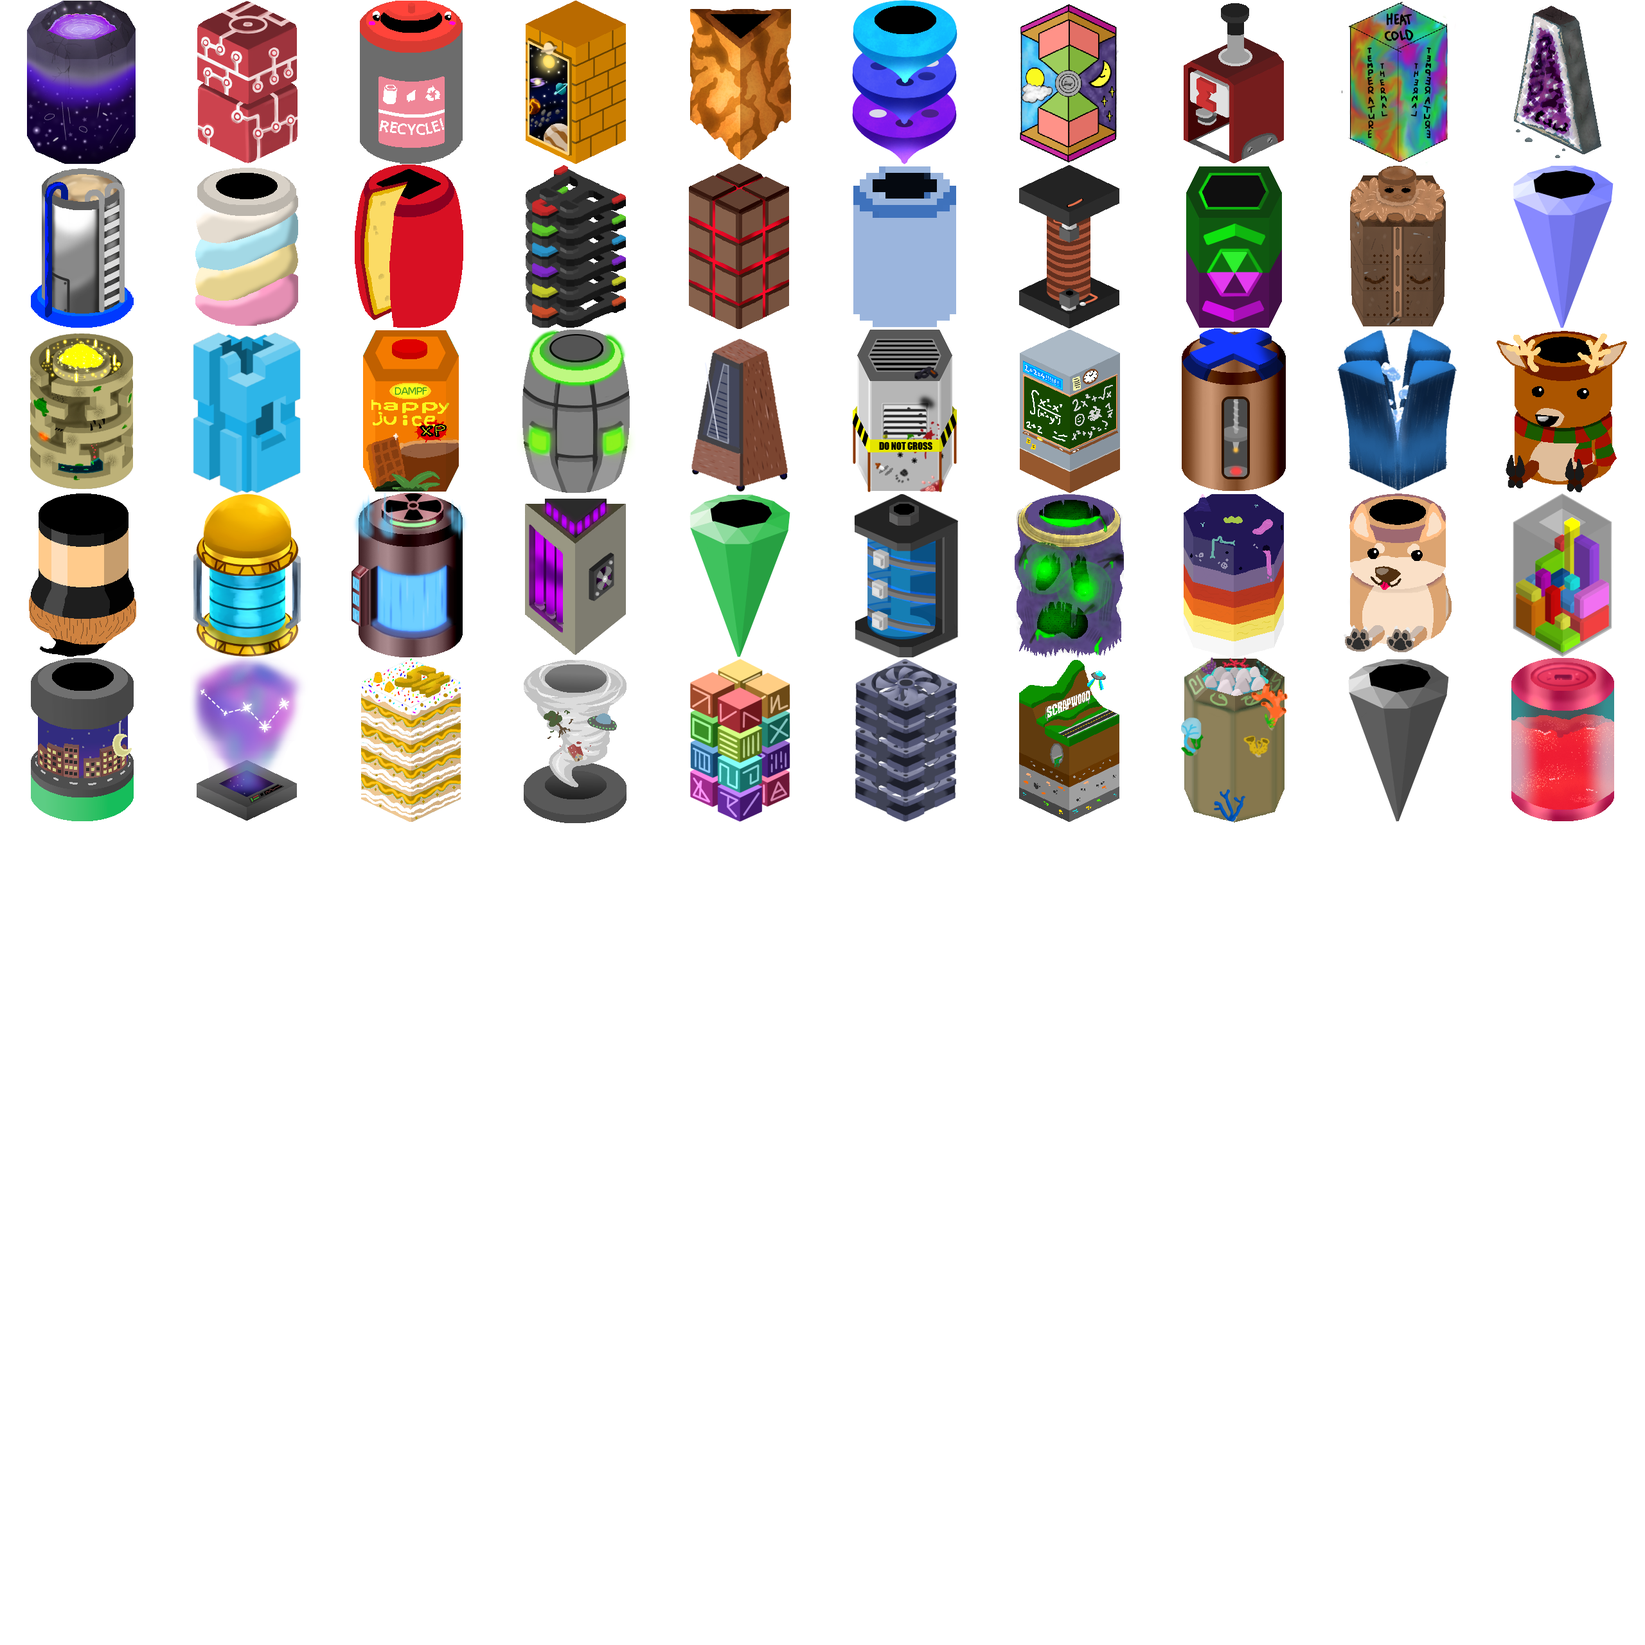
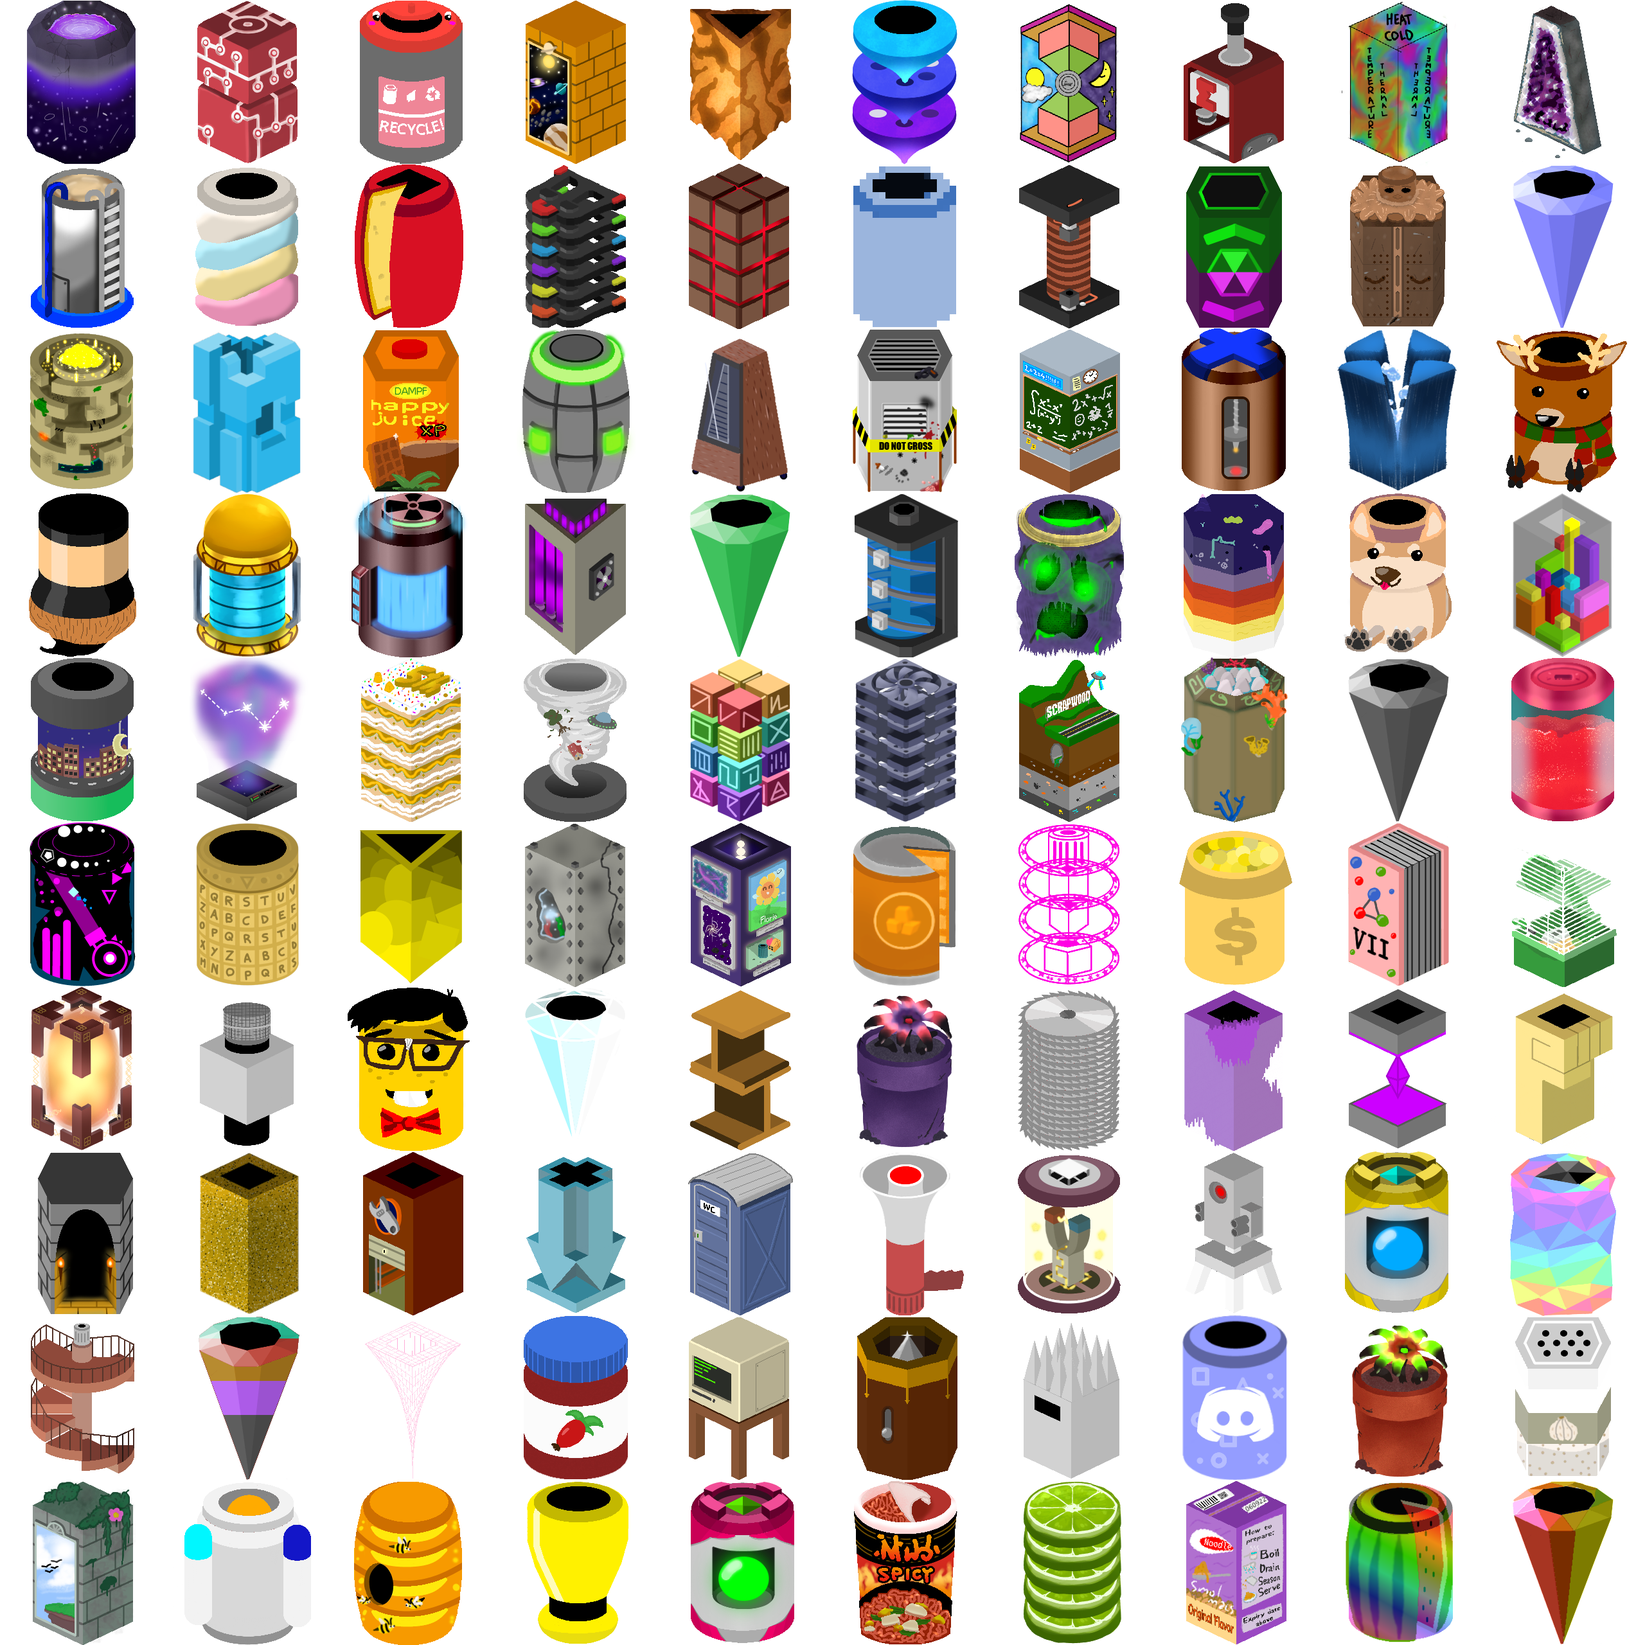
Final beta?

diff --git a/Scripts/gamedefinition.js b/Scripts/gamedefinition.js
@@ -78,7 +78,7 @@
                 }
                 freeSpots = 20;
                 draggedBarrel = undefined;
-                game.mergesThisPrestige = 0;
+                if(!timeMode) game.mergesThisPrestige = 0;
                 game.scrap = new Decimal(0);
                 game.scrapThisPrestige = new Decimal(0);
                 for (let upg of Object.keys(game.scrapUpgrades)) {
@@ -158,16 +158,19 @@
                         }
                     }
 
-                    for (let i = 0; i < barrels.length; i++) {
-                        if (barrels[i] !== undefined && barrels[i].level < applyUpgrade(this).toNumber() + 1) {
-                            barrels[i] = new Barrel(applyUpgrade(this).toNumber() + 1);
-                        }
-                    }
+                    this.onBuyMax(this.level);
 
                 },
                 onLevelDown: function (level) {
                     for (let i = 0; i < barrels.length; i++) {
                         barrels[i] = new Barrel(level);
+                    }
+                },
+                onBuyMax: function (level) {
+                    for (let i = 0; i < barrels.length; i++) {
+                        if (barrels[i] !== undefined && barrels[i].level < applyUpgrade(this).toNumber() + 1) {
+                            barrels[i] = new Barrel(applyUpgrade(this).toNumber() + 1);
+                        }
                     }
                 },
                 maxLevel: 3000,
@@ -790,7 +793,7 @@
         upgrades: {
             scrapBoost: new CogwheelUpgrade(
                 level => new Decimal(Math.sqrt(level)).add(1.2).pow(3.5),
-                level => new Decimal(3.7).pow(level * 7),
+                level => new Decimal(13.7).pow(level * 7),
                 {
                     getEffectDisplay: effectDisplayTemplates.numberStandard(2, "x")
                 }),
@@ -1600,7 +1603,7 @@
     autos:
     {
         autoBetterBarrels: new AutoUpgrade(
-            level => new Decimal(Math.round(level / 20) + 2),
+            level => new Decimal(Math.round(level / 60) + 2),
             level => (60.5 - (0.5 * level) - (0.25 * Math.min(level, 25)) + (0.25 * Math.max(level - 92, 0))) * Math.min(level, 1),
             RESOURCE_LEGENDARYSCRAP, ["scrapUpgrades", "betterBarrels"],
             time = 0,
@@ -1878,17 +1881,21 @@
                 new Milestone(156, "RPG v3 (Mastery 2.0)", 92, "Unlock Barrel Mastery", () => game.barrelMastery.isUnlocked()),
                 new Milestone(157, "Influenced by the barrels", 1, "Unlock the first mastery upgrade", () => getTotalLevels(1) > 9),
                 new Milestone(158, "There's more?!", 2, "Unlock the second mastery upgrade", () => getTotalLevels(2) > 9),
+                new Milestone(230, "Scrapmas", 116, "Unlock Gifts (Earth)", () => game.solarSystem.upgrades.earth.level >= EarthLevels.GIFTS),
                 new Milestone(159, "Uhh, why aren't you using them?", 93, "Refuse to spend your Mastery Tokens\nfor a while", () => game.barrelMastery.masteryTokens.gte(new Decimal(500))),
+                new Milestone(231, "Lots of Love", 116, "Send a gift to someone", () => game.dimension == 508050),
                 new Milestone(160, "Master Builder", 24, "Unlock the third mastery upgrade", () => getTotalLevels(3) > 9),
                 new Milestone(161, "Topper", 93, "Hoard 2k Mastery Tokens for some reason", () => game.barrelMastery.masteryTokens.gte(new Decimal(2000))),
                 new Milestone(124, "To The End Of The Universe", 74, () => "Mythus level 50", () => game.solarSystem.upgrades.mythus.level > 49),
                 new Milestone(162, "My first 1M barrel", 0, "Have 1M mastery merges on barrel 204", () => game.barrelMastery.b[203] >= 1000000),
+                new Milestone(232, "Is for me?", 116, "Receive a gift from someone", () => game.dimension == 508050),
                 new Milestone(163, "Another yellow beam", 94, "Collect a golden beam", () => game.stats.totalgoldenbeamscollected >= 1),
                 new Milestone(166, "Save the crabs!", 95, "Unlock Plastic Bags", () => game.skillTree.upgrades.unlockPlasticBags.level > 0),
                 new Milestone(117, "For the Door Handle\nSalesman", 19, "Reach " + Decimal.pow(2, 15360).toFixed(2) + " Scrap", () => game.highestScrapReached.gte(Decimal.pow(2, 15360))),
                 new Milestone(167, "Crab Saver I", 96, "Buy 25 Plastic Bags (in total)", () => game.stats.totalplasticbags.gte(25)),
                 new Milestone(168, "Exponential Power", 16, "I thought this upgrade will be weak,\nbut it's actually very strong...", () => game.skillTree.upgrades.strongerMasteryMagnets.level > 0),
                 new Milestone(170, "Crab Saver II", 96, "Buy 100 Plastic Bags (in total)", () => game.stats.totalplasticbags.gte(100)),
+                new Milestone(233, "Laughing Out Loud", 116, "Leave a special message for someone...", () => game.dimension == 508050),
                 new Milestone(169, "Cheap Path Done!", 16, "Unlock the Faster Merge Mastery tree upgrade", () => game.skillTree.upgrades.fasterMergeMastery.level > 0),
                 new Milestone(171, "Green Upgrades", 95, "Level the first Plastic Bag upgrade to 25", () => game.plasticBags.upgrades.moreScrap.level > 24),
                 new Milestone(125, "Level Push is OP", 75, () => "Reach Better Barrels level 5000", () => game.scrapUpgrades.betterBarrels.level > 4999),
@@ -1938,6 +1945,7 @@
                 new Milestone(211, "Falling Magnet Guys", 2, "Make Falling Magnets\nworth 100x more", () => game.skillTree.upgrades.fallingMagnetValue.level > 0),
                 new Milestone(212, "Tim Mode", 112, "Unlock Time Mode", () => game.skillTree.upgrades.unlockTimeMode.level > 0),
                 new Milestone(213, "Third Dimension", 112, () => "Start a run...", () => game.dimension == 508050),
+                new Milestone(234, "Advent Calendar", 116, "Send some gifts to the people", () => game.stats.giftsSent.gte(24)),
                 new Milestone(214, "Hot Wheels", 111, "Earn your first cogwheels!", () => game.cogwheels.amount.gte(0)),
                 new Milestone(215, "Cog, the player?", 111, "Have 1000 cogwheels at once", () => game.cogwheels.amount.gte(1000)),
                 new Milestone(216, "**** wheels", 113, () => "Earn 1000 cogwheels in a single run", () => game.dimension == 508050),
@@ -1951,6 +1959,7 @@
                 new Milestone(224, "Plastic Eff. Testing Agency", 95, "Cheaper Plastic Bags", () => game.tires.upgrades[3][2].level > 9),
                 new Milestone(227, "Combine Everything", 65, "Do 100k self merges\n(Merges from auto merge do not count as self merges)", () => game.selfMerges > 99999),
                 new Milestone(179, "Scrapyard v300", 68, "Upgrade scrapyard to level 301", () => game.mergeQuests.scrapyard > 300),
+                new Milestone(235, "They Call Me Santa", 116, "Send a few gifts to the people", () => game.stats.giftsSent.gte(100)),
                 new Milestone(147, "Time to go AFK...", 87, "Max. the first auto buyer", () => game.autos.autoBetterBarrels.level > 116),
                 new Milestone(210, "It's been 84 years...", 27, "Level the fourth tire row to 50", () => game.tires.upgrades[3][0].level > 49 && game.tires.upgrades[3][1].level > 49 && game.tires.upgrades[3][2].level > 49),
                 new Milestone(165, "Nobody can touch this", 69, () => "Reach " + formatNumber(new Decimal(2).pow(40960)) + " Scrap\nStop... scrap grinding time!", () => game.highestScrapReached.gte(Decimal.pow(2, 40960))),

diff --git a/Scripts/main.js b/Scripts/main.js
@@ -190,7 +190,7 @@ function update()
         }
         else if (timeMode && freeSpots == 0) {
             timeMode = false;
-            let cogReward = Math.floor(timeModeTime / 4) * calculateCurrentHighest();
+            let cogReward = Math.floor(timeModeTime / 2) * calculateCurrentHighest();
 
             if (game.ms.includes(215) == false && cogReward > 999) {
                 game.ms.push(215);
@@ -203,16 +203,17 @@ function update()
             GameNotification.create(new TextNotification("+" + cogReward + " cog wheels", "Time Over!"));
 
             timeModeTime = 0;
-
+            let Ti = 0;
             while (timeTires >= 0) {
-                movingItemFactory.jumpingTire();
+                stormQueue.push([100 * Ti, "tire", 1]);
                 timeTires -= 1;
+                Ti += 1;
             }
         }
 
         if (timeMode) {
             timeModeTime += delta;
-            game.scrapUpgrades.fasterBarrels.level = Math.floor(timeModeTime / 8);
+            game.scrapUpgrades.fasterBarrels.level = Math.floor(timeModeTime / 4);
         }
 
         if(game.solarSystem.upgrades.earth.level >= EarthLevels.UNLOCK_MARS && !timeMode)
@@ -513,6 +514,9 @@ function update()
                             let val = stormQueue[q][2];
 
                             switch (stormQueue[q][1]) {
+                                case "tire":
+                                    movingItemFactory.jumpingTire();
+                                    break;
                                 case "goldenbeam":
                                     movingItemFactory.fallingGoldenBeam(val);
                                     break;
@@ -544,13 +548,13 @@ function update()
         }
     }
 
-    
+    /*
     ctx.font = (h * .02) + "px " + fonts.default;
     ctx.textAlign = "left";
     ctx.textBaseline = "top";
     ctx.fillStyle = "white";
     ctx.fillText((1 / delta).toFixed(0) + " fps", w * 0.01, h * 0.005, w);
-    
+    */
     //ctx.fillText("mouseMove: [" + mouseMoveX + ", " + mouseMoveY + "]", w * 0.33, h * 0.005, w);
 
     requestAnimationFrame(update);
@@ -664,7 +668,7 @@ var masMerges = [100, 250, 500, 1000, 2500,
                  5000, 7500, 10000, 15000, 20000, 25000];
 // 100, 125, 166, 250, 500, 833, 1071, 1250, 1666, 2000, 2272(, 4166, 5796, 7142, ...)
 
-const filthyWords = ["ass", "cum", "shit", "fuck", "bitch", "hitler", "cunt", "poop", "faggot"]
+const filthyWords = ["ass", "cum", "shit", "fuck", "bitch", "hitler", "cunt", "poop", "faggot", "nigger", "nigga", "slave", "cock", "dick", "sex", "penis", "vagina"]
 
 function calculateMasteryLevel(merges) {
     if (merges < 25001) {
@@ -876,8 +880,8 @@ function setBarrelQuality(idx, fromScene)
 {
     barrelsLoaded = false;
     Scene.loadScene("Loading");
-    if (game.dimension == 0) {
-        for (i = 1; i < 10; i++) { // Change these two every time you add new BARRELS files
+    if (game.dimension == 0) { /* Change this when you add new BARRELS files */
+        for (i = 1; i < 11; i++) { // Change these two every time you add new BARRELS files
             images["barrels" + i] = loadImage("Images/Barrels/" + ["barrels" + i + ".png", "barrels" + i + "_lq.png",
                 "barrels" + i + "_ulq.png"][idx], () => {
                     barrelsLoaded = true;
@@ -886,7 +890,7 @@ function setBarrelQuality(idx, fromScene)
         }
     }
     if (game.dimension == 1) {
-        for (i = 1; i < 10; i++) {
+        for (i = 1; i < 11; i++) {
             images["barrels" + i] = loadImage("Images/Barrels/" + ["barrels" + i + "b.png", "barrels" + i + "b_lq.png",
                 "barrels" + i + "b_ulq.png"][idx], () => {
                     barrelsLoaded = true;
@@ -1000,8 +1004,9 @@ function maxScrapUpgrades() {
     for (k in game.scrapUpgrades) {
         let upg = game.scrapUpgrades[k];
         while (upg.currentPrice().lte(game.scrap) && upg.level < upg.maxLevel) {
-            upg.buy();
+            upg.buy(false, true);
         }
+        upg.onBuyMax();
     }
 }
 

diff --git a/Scripts/scene.js b/Scripts/scene.js
@@ -26,7 +26,7 @@ var giftNames = {
 var worth1, worth2;
 var multiConvert = 1;
 
-const BARRELS = 850;
+const BARRELS = 950;
 const gameVersionText = "v2.9 (v3.6)";
 
 var timeMode = false;
@@ -1848,7 +1848,16 @@ var scenes =
                     giftMsg = prompt("Message? (Max. 80 characters)").substr(0, 80);
 
                     for (f in filthyWords) {
-                        giftMsg = giftMsg.replace(filthyWords[f], "#".repeat(filthyWords[f].length));
+                        let prev = "";
+                        while (giftMsg != prev) {
+                            prev = giftMsg;
+                            giftMsg = giftMsg.replace(filthyWords[f], "#".repeat(filthyWords[f].length));
+                        }
+                    }
+
+                    if (game.ms.includes(233) == false) {
+                        game.ms.push(233);
+                        GameNotification.create(new MilestoneNotificaion(234));
                     }
                 }, { quadratic: true }),
                 new UIText(() => giftMsg.substr(0, 40), 0.5, 0.525, 0.02),
@@ -1878,6 +1887,11 @@ var scenes =
                                 alert("The gift has been copied to your clipboard. Share it with the friend!");
 
                                 game.stats.giftsSent = game.stats.giftsSent.add(1);
+
+                                if (game.ms.includes(231) == false) {
+                                    game.ms.push(231);
+                                    GameNotification.create(new MilestoneNotificaion(232));
+                                }
                             }
                         }
                         else {
@@ -1939,6 +1953,11 @@ var scenes =
                                 GameNotification.create(new TextNotification(giftContent.message, "Important message"));
 
                                 game.stats.giftsReceived = game.stats.giftsReceived.add(1);
+
+                                if (game.ms.includes(232) == false) {
+                                    game.ms.push(232);
+                                    GameNotification.create(new MilestoneNotificaion(233));
+                                }
                             }
                             else {
                                 alert("This gift appears to be for someone else, or you already opened a gift from that person today...");

diff --git a/Scripts/mergequest.js b/Scripts/mergequest.js
@@ -18,7 +18,7 @@ class MergeQuest
         let highestLvl = game ? Math.max(100, Math.min(game.highestBarrelReached - 10, game.scrapUpgrades.betterBarrels.maxLevel)) : 100;
         let minLvl = game ? Math.max(50, game.highestBarrelReached - 250) : 0;
         if (tier != 5) this.barrelLvl = Math.floor(minLvl + Math.random() * (highestLvl - minLvl));
-        else this.barrelLvl = (calcTime * (28643 * calcTime)) % 700; //Amount of barrels
+        else this.barrelLvl = (calcTime * (28643 * calcTime)) % BARRELS; //Amount of barrels
         this.neededMerges = [100, 250, 500, 1000, 2500, 10000][tier];
         if(this.neededMerges < 10000) this.reward = new Decimal(Math.floor([1, 2, 4, 8, 25, 250][tier] * applyUpgrade(game.darkscrap.upgrades.mergeTokenBoost) * (1+applyUpgrade(game.skillTree.upgrades.moreMergeTokens))));
         else this.reward = new Decimal(Math.floor([1, 2, 4, 8, 25, 250][tier] * applyUpgrade(game.darkscrap.upgrades.mergeTokenBoost) * (1 + applyUpgrade(game.skillTree.upgrades.moreMergeTokens)) / applyUpgrade(game.bricks.upgrades.questSpeed).mul(applyUpgrade(game.tires.upgrades[1][2])).toNumber() ));

diff --git a/Scripts/barrel.js b/Scripts/barrel.js
@@ -132,14 +132,14 @@ class Barrel
 
     static renderBarrel(ctx, level, x, y, size, preview)
     {
-        let section = Math.max((Math.max(1, Math.ceil((0.0001 + level % BARRELS) / 100))) % 10 /* Change this when you add new BARRELS files */, 1);
+        let section = Math.max((Math.max(1, Math.ceil((0.0001 + level % BARRELS) / 100))) % 11 /* Change this when you add new BARRELS files */, 1);
         if (images["barrels" + section].width > 0 && images["barrels" + section].height > 0) //prevent infinite loop, wait for loaded image
         {
             let barrelRows = Math.floor(images["barrels" + section].height / BARREL_SPRITE_SIZE); //rows in spritesheet
             
             let lvl = Math.round(level);
             let lvlToDraw = lvl % BARRELS;
-            let spriteX = BARREL_SPRITE_SIZE * (lvlToDraw % 10);
+            let spriteX = BARREL_SPRITE_SIZE * (lvlToDraw % 10); // don't change these 2
             let spriteY = BARREL_SPRITE_SIZE * Math.floor((lvlToDraw / 10) % barrelRows);
 
             let order = Math.floor(lvl / BARRELS);

diff --git a/Scripts/upgrade.js b/Scripts/upgrade.js
@@ -254,6 +254,9 @@ class ScrapUpgrade
             {
                 this.onLevelDown = cfg.onLevelDown;
             }
+            if (cfg.onBuyMax) {
+                this.onBuyMax = cfg.onBuyMax;
+            }
             if (cfg.isUnlocked)
             {
                 this.isUnlocked = cfg.isUnlocked;
@@ -279,13 +282,17 @@ class ScrapUpgrade
 
     }
 
+    onBuyMax() {
+
+    }
 
 
-    buy(round) {
+
+    buy(round, disableOnBuy=false) {
         let resource = getUpgradeResource(this.resource);
         let canAfford = round ? (this.currentPrice().round().lte(resource.round())) : this.currentPrice().lte(resource);
         if (this.level < this.getMaxLevel() && canAfford) {
-            this.onBuy();
+            if (!disableOnBuy) this.onBuy();
             let p = round ? this.currentPrice().round() : this.currentPrice();
             resource = resource.sub(p);
             if (isNaN(resource)) //is resource negative

diff --git a/Scripts/preload.js b/Scripts/preload.js
@@ -25,6 +25,7 @@ var images =
     barrels7: undefined,
     barrels8: undefined,
     barrels9: undefined,
+    barrels10: undefined,
     shadowBarrels: [],
     previewBarrels: [],
     appIcon: loadImage("Images/app-icon.png"),
@@ -353,7 +354,7 @@ function cacheBarrel(id) {
     cacheCanvas.height = BARREL_SPRITE_SIZE + shadowOffset;
     Utils.setCanvasShadow(cacheCanvasCtx, "#00000060", 0, shadowOffset, shadowOffset);
 
-    let section = Math.max((Math.max(1, Math.ceil((0.0001 + id % BARRELS) / 100))) % 8, 1);
+    let section = Math.max((Math.max(1, Math.ceil((0.0001 + id % BARRELS) / 100))) % 11, 1); /* Change this when you add new BARRELS files */
     cacheCanvasCtx.drawImage(images["barrels" + section], x, y, BARREL_SPRITE_SIZE, BARREL_SPRITE_SIZE, 0, 0, BARREL_SPRITE_SIZE, BARREL_SPRITE_SIZE);
 
     let img = new Image();
